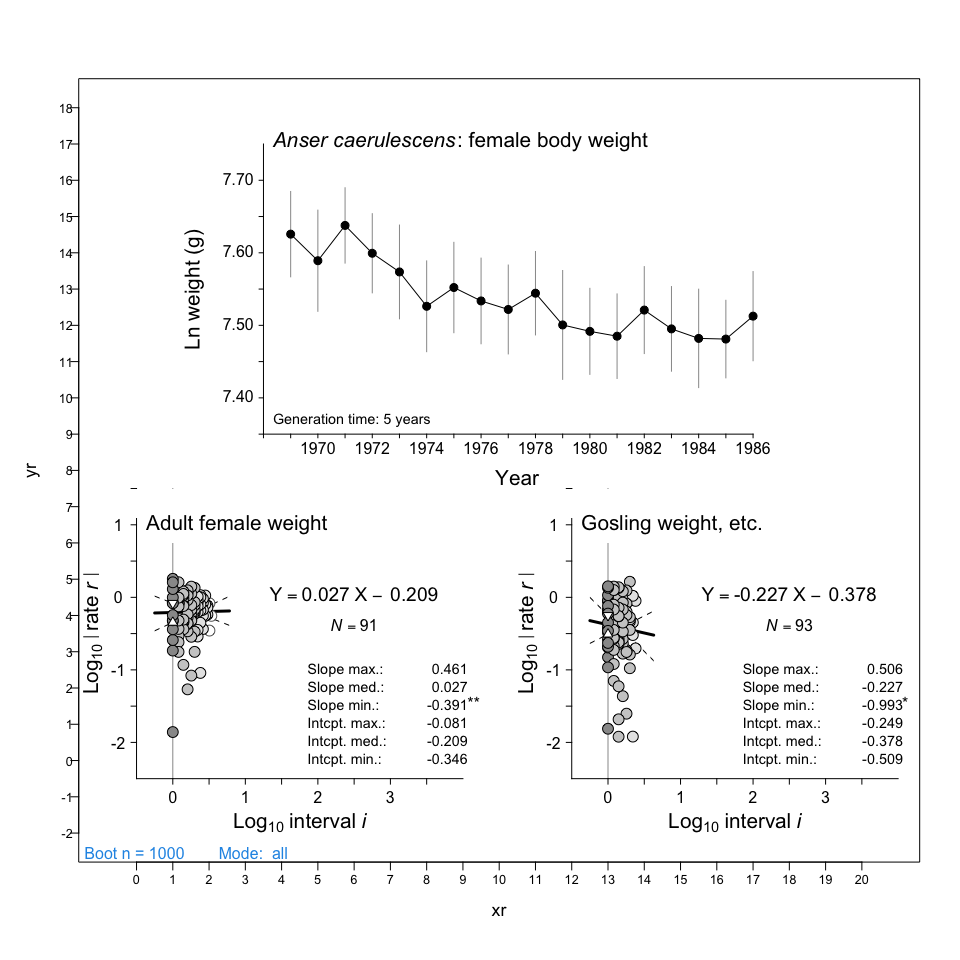
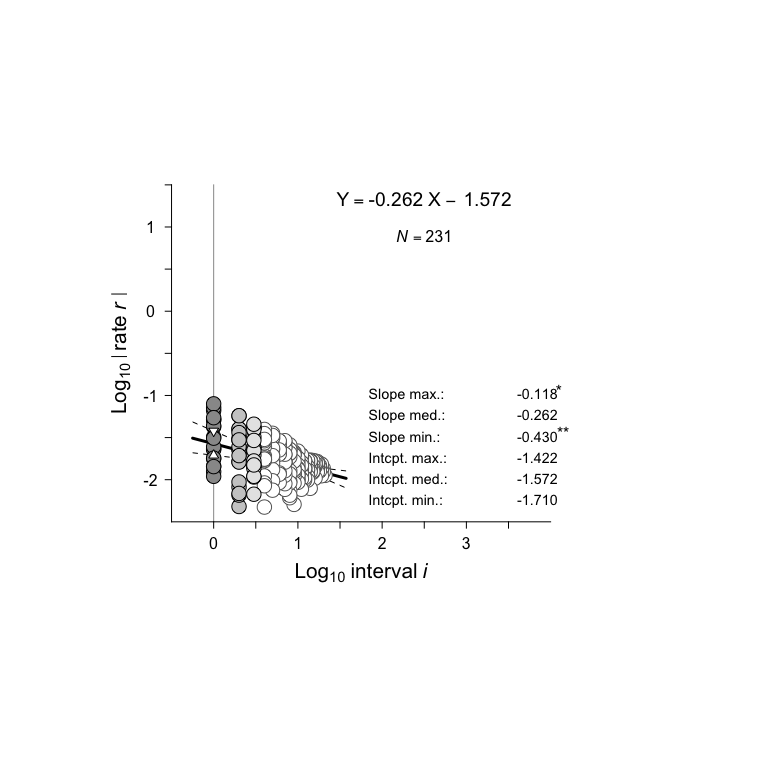
add a data prep function to simplify the simple example even more

diff --git a/README.md b/README.md
@@ -57,76 +57,29 @@ variable, and a number of samples variable. Here’s some example data:
 | 1100 | 1.72e-05 | 5.77e-05 | 370 |
 | 1120 | 1.64e-05 | 5.65e-05 | 443 |
 
-Next we prepare an empty matrix to hold the rates calculations. It’s
-important that the columns are in the order of time-mean-sd-n, and that
-these are the first four columns in the data frame. The column names are
-not important.
+Next we prepare our data for analysis of rates. It’s important that the
+first four columns of our input data are in the order of
+time-mean-sd-n. The column names are not important, but it is important
+that these are the first four columns in the data frame.
 
 ``` r
-# our input data frame is called x
-
-n = length(x[,2])        # get the number of rows (measurements)
-nn = 0.5 * (n-1) * n     # get the number of pairwise comparisons
-
-idr = matrix(nrow = nn,
-             ncol = 9)   # create an empty matrix with 9 columns
-
-# set the column names of our empty matrix
-colnames(idr) = c('int',
-                  'diff.sd',
-                  'rate.sd',
-                  'log.i',
-                  'log.d',
-                  'log.r',
-                  'sbn',
-                  'wgt',
-                  'sum')
-```
-
-Next we loop over the input data to compute the rates of change and fill
-the matrix with the results. Here we are using the `PoolSD` function
-from the roev package, the rest is base R.
-
-``` r
-# populate the empty matrix with rate calculations
-nc = 0
-stdev <- numeric(length = n - 1)
-
-for (k in 1:(n - 1)){                           # run length
-  for (i in 1:(n - k)){                         # starting position
-    nc = nc + 1
-    idr[nc, 1] = k                                        # intercept
-    meandiff = x[(i + k), 2] - x[i, 2]              # mean diff.
-    poolsd = roev::PoolSD(x[i + k, 4], x[i, 4], x[i + k, 3], x[i, 3])
-    idr[nc, 2] = meandiff/poolsd                        # diff.sd
-    idr[nc, 3] = idr[nc, 2] / idr[nc, 1]            # rate.sd
-    idr[nc, 4] = log10(idr[nc, 1])                  # log.i
-    idr[nc, 5] = log10(abs(idr[nc, 2]))             # log.d
-    idr[nc, 6] = log10(abs(idr[nc, 3]))             # log.r
-    if(idr[nc, 1] == 1){idr[nc, 7] = 1} else {idr[nc, 7] = 3}   # sbn
-    idr[nc, 8] = 1 / idr[nc, 1]                         # wgt
-    idr[nc, 9] = idr[nc, 4] + idr[nc, 6]            # sum
-    stdev[i] = poolsd
-  }
-}
-
-idrx1 = idr[!rowSums(!is.finite(idr)), ]  # remove rows that have -Inf
+idrx1 <- roev::DataPrep(x)
 ```
 
 Now we are ready to plot the Log rate versus log interval (LRI) analysis
 of the time series with circles representing rates for corresponding
 intervals. This is the distinctive plot in all of Gingerich’s case
 studies. It is important because it provides the output of the robust
-linear regressions, which can be used for interpreting if the rate of
-evolution is random, stationary or directional. The robust regression is
-computed using `rlm` from the MASS package. Confidence intervals for the
-slope and intercept are computed by bootstrapping, resulting in a stable
-median and a representative confidence interval.
+linear regressions. It’s the slope on these regressions that allows us
+to determine if the rate of evolution is random, stationary or
+directional. Confidence intervals for the slope and intercept are
+computed by bootstrapping, resulting in a stable median and a
+representative confidence interval.
 
 ``` r
 
-plot(c(-5, 8),   # set up plot, some trial and error required here
-     c(-5, 8),              
+plot(c(-5, 8),   # set up plot 
+     c(-5, 8),   # some trial and error required here       
      type = 'n',
      xaxt = 'n',
      yaxt = 'n',
@@ -136,7 +89,7 @@ plot(c(-5, 8),   # set up plot, some trial and error required here
 
 bootresultd = roev::TriPanelBC(idrx1,     # idrx matrix
                                "r",       # mode (diff/rate)
-                               -3,         # panel placement coordinate x
+                               -3,        # panel placement coordinate x
                                3,         # panel placement coordinate y
                                1000,      # number of bootstrap replications
                                "all",     # 'mode' as "medians","all","mixed"
@@ -144,7 +97,7 @@ bootresultd = roev::TriPanelBC(idrx1,     # idrx matrix
                                "normal")  # 'equation' position as "normal","lower","none"
 ```
 
-<img src="man/figures/README-unnamed-chunk-6-1.png" width="100%" />
+<img src="man/figures/README-unnamed-chunk-5-1.png" width="100%" />
 
 ``` r
 # extract some values to use inline in text about the plot
@@ -154,8 +107,8 @@ slope_med <- round(bootresultd[[1]][2], 3)
 slope_min <- round(bootresultd[[1]][3], 3)
 ```
 
-In the example above, we see a median slope of -0.261, and a confidence
-interval for the slope of -0.425 to -0.116.
+In the example above, we see a median slope of -0.262, and a confidence
+interval for the slope of -0.43 to -0.118.
 
 Here’s the key to interpreting the LRI plot above (from Gingerich
 2019:109)
@@ -783,7 +736,7 @@ text(
 )
 ```
 
-<img src="man/figures/README-unnamed-chunk-11-1.png" width="100%" />
+<img src="man/figures/README-unnamed-chunk-10-1.png" width="100%" />
 
 The original caption for this plot in the book is “Size change in the
 snow goose Anser caerulescens studied at La Pérouse Bay, Manitoba, from
@@ -1283,7 +1236,7 @@ bootresultd = PalPanelBC(idrx[, 1:8], "d", 1, 4.5, bootn, mode, psize, "normal",
 bootresultr = PalPanelBC(idrx[, 1:8], "r", 13, 4.5, bootn, mode, psize, "normal", 0)
 ```
 
-<img src="man/figures/README-unnamed-chunk-13-1.png" width="100%" />
+<img src="man/figures/README-unnamed-chunk-12-1.png" width="100%" />
 
 Here is the original caption for this figure from the book: “Rates of
 evolution in two Miocene merycoidodont mammal lineages spanning five
